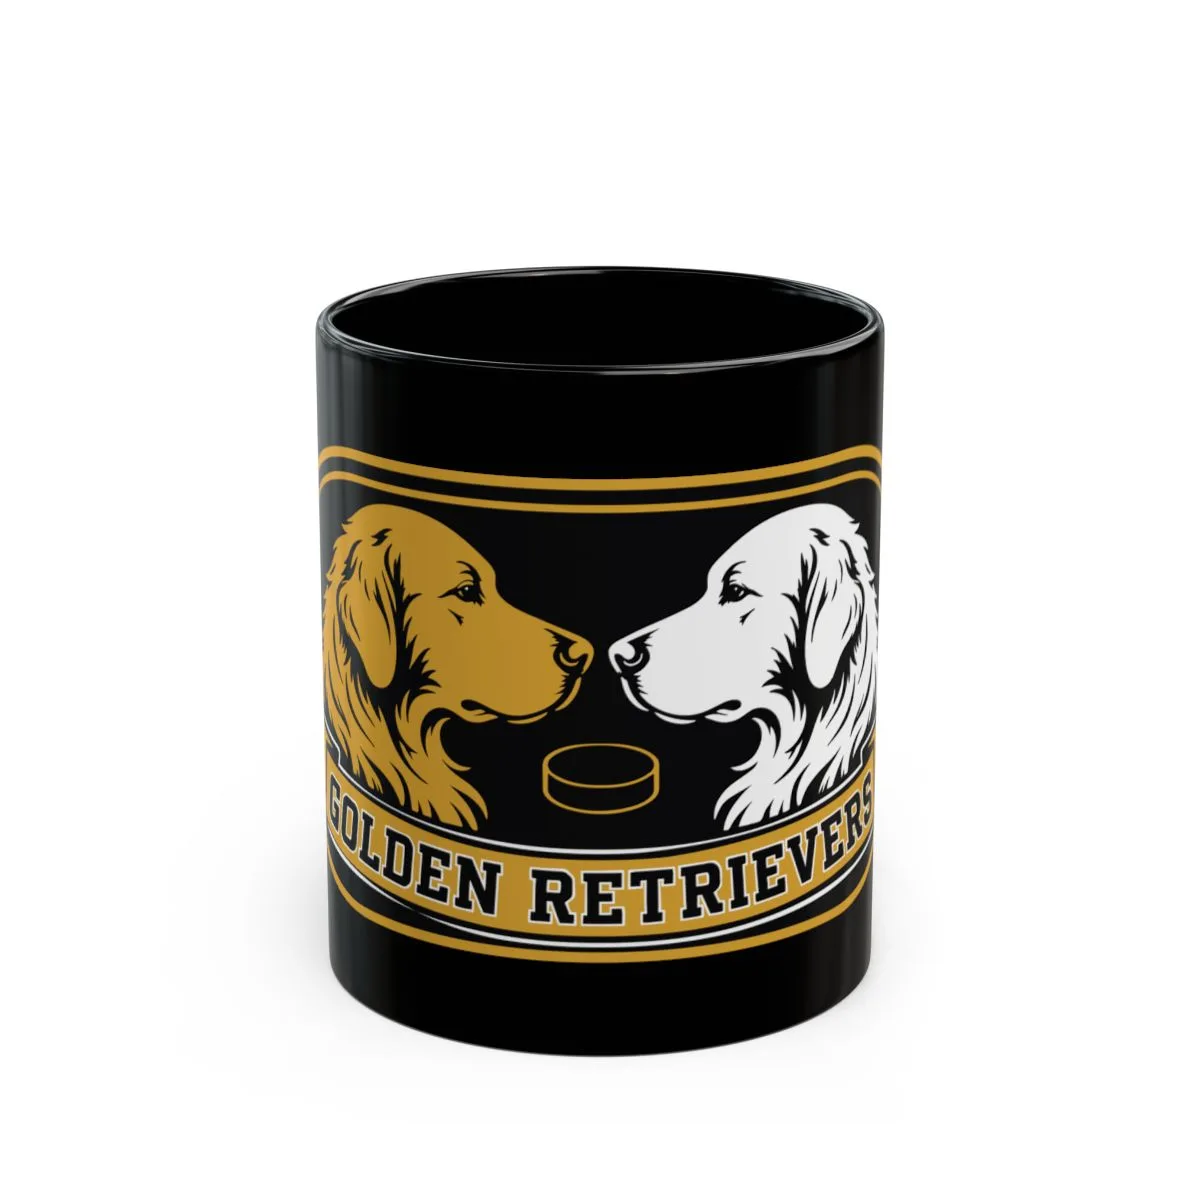
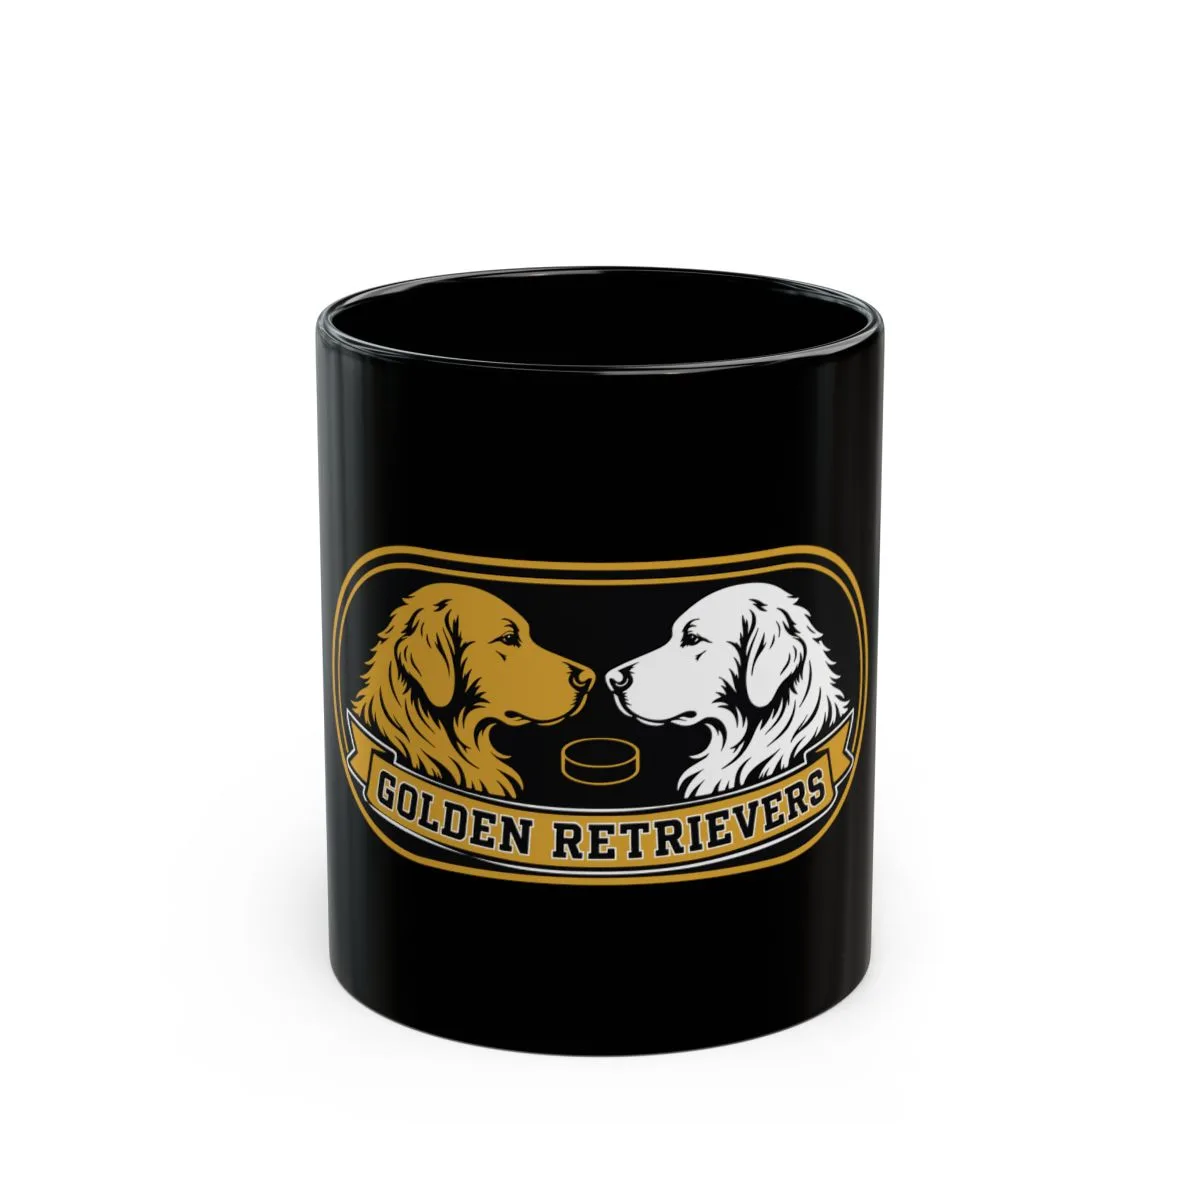
feat(store): 25% margins, cheapest reliable makers, and a listing QA pass
Three policies settled, then every listing checked against the provider's own
render rather than against the arithmetic.

SHIPPING — confirmed, and the concern was real

The captain asked whether breaking postage out was genuinely the better route,
and specifically whether a customer buying five things from one supplier gets
charged five times. Measured:

  5 tees, one design      $14.35
  5 tees, THREE designs   $14.35   ($4.75 + 4 x $2.40)
  bundled would charge    $23.75   (5 x $4.75)

So yes. A per-product rate cannot express a table where the second unit costs
half the first, and bundling overcharged every multi-item order by up to $9.40.
Quoted live per basket is both cheaper for the customer and honest. Already
shipped; this confirms it.

MARGINS — 33-43% down to ~25%

  tee $29 → $25    hoodie $66 → $55    cap $35 → $30
  beanie $27 → $23  mug $17 → $16      3 stickers $13.50 → $10.50

"I don't want to be ripping people off." The THIN flag moved 30% → 20%, since a
threshold above the target flags everything and therefore flags nothing. 20% is
where a sale stops being worth making: below it one customer-error reprint costs
more than three sales earn.

MAKERS — surveyed all six, one switch available and it was already taken

  hoodie   Monster Digital has 35 variants against SwiftPOD's 109 and cannot
           print the back, which two products need
  cap      Printify Choice saves 19c and loses a named embroiderer + EU
  beanie   Printify Choice is the same $14.96
[…]

Changed region(s): [[0.2467, 0.37, 0.74, 0.8017]]

diff --git a/packages/store/src/matrix.ts b/packages/store/src/matrix.ts
@@ -517,7 +517,7 @@ export const ITEMS: Item[] = [
     // back the day international opens** — the EU difference is larger than the
     // saving.
     printProviderId: 29,
-    priceCents: 2900,
+    priceCents: 2500,
     taxCode: "txcd_30011000",
     sizes: ["S", "M", "L", "XL", "2XL", "3XL"],
     // Three, not the ten Printful offered: Monster Digital prints and does not
@@ -565,7 +565,7 @@ export const ITEMS: Item[] = [
     // black, runs to 3XL, and adds the back and both sleeves as print areas. It
     // is also 55 cents cheaper on black.
     printProviderId: 39,
-    priceCents: 6600,
+    priceCents: 5500,
     taxCode: "txcd_30011000",
     sizes: ["S", "M", "L", "XL", "2XL", "3XL"],
     positions: ["front", "back", "left_sleeve", "right_sleeve", "neck"],
@@ -600,7 +600,7 @@ export const ITEMS: Item[] = [
     // Printify Choice, not SPOKE (provider 1). SPOKE appears in the catalog for
     // this blueprint and rejects creation outright — see REJECTS_CREATION.
     printProviderId: 99,
-    priceCents: 450,
+    priceCents: 350,
     // Vinyl, not apparel. No exemption anywhere applies to it.
     taxCode: "txcd_99999999",
     // Three at a time, and this is arithmetic rather than merchandising.
@@ -650,7 +650,7 @@ export const ITEMS: Item[] = [
     // cap. On embroidery, where the difference between shops is visible in the
     // stitch, 19 cents is not a decision.
     printProviderId: 410,
-    priceCents: 3500,
+    priceCents: 3000,
     // Hats, not general clothing. New York exempts caps the same way it exempts
     // shirts; the specific code is the one that says so in every other state too.
     taxCode: "txcd_30060006",
@@ -683,7 +683,7 @@ export const ITEMS: Item[] = [
     // beanie and the same $4.89 to post it. Printful adds Europe at $4.59,
     // which Printify Choice does not offer at any price.
     printProviderId: 410,
-    priceCents: 2700,
+    priceCents: 2300,
     taxCode: "txcd_30060006",
     sizes: ["One size"],
     positions: ["front"],
@@ -711,7 +711,7 @@ export const ITEMS: Item[] = [
     // BRAND in the mug category, was probed and costs $13.08 through the single
     // provider that carries it. That is a $30 mug, and it is not one.
     printProviderId: 99,
-    priceCents: 1700,
+    priceCents: 1600,
     // Ceramic. Fully taxable everywhere this shop can post to.
     taxCode: "txcd_99999999",
     sizes: ["11 oz", "15 oz"],
@@ -810,11 +810,18 @@ export const MATRIX: MatrixEntry[] = [
   { mark: "rink-board", item: "beanie", placement: { widthIn: 4.4 } },
   { mark: "nose-to-nose", item: "beanie", placement: { widthIn: 3.2 } },
 
-  /* Mug — landscape, and the two widest marks wrap it the way a mug wants to be
-     wrapped. The medallion is the third because a mug is the one object in the
-     line you look at head-on. */
-  { mark: "rink-board", item: "mug", placement: { widthIn: 6.5 } },
-  { mark: "nose-to-nose", item: "mug", placement: { widthIn: 6.0 } },
+  /* Mug — and the widths here are smaller than the canvas allows, on purpose.
+     The print area is 7.76in wide but a mug is a CYLINDER: seen head-on, only
+     the middle four inches or so face you and the rest curves away. Printify's
+     mockup renders that honestly, which is how it was caught — `rink-board` at
+     6.5in came back with the dog roundel bisected by the left edge of the mug
+     and the stick running off the right. It was not mispositioned; it was
+     printed correctly onto a surface that bends.
+     So the two wide marks are sized to the VISIBLE face rather than to the
+     canvas, and the medallion — which was already inside it at 3.44in — is
+     untouched. A mug is the one object in this line you look at head-on. */
+  { mark: "rink-board", item: "mug", placement: { widthIn: 4.5 } },
+  { mark: "nose-to-nose", item: "mug", placement: { widthIn: 4.0 } },
   { mark: "mascot-medallion", item: "mug" },
 
   /* Sticker — kiss-cut, so the vinyl takes the shape of the mark and every

diff --git a/packages/store/src/sync.ts b/packages/store/src/sync.ts
@@ -111,6 +111,16 @@ export type SyncResult = {
   id: string;
   productId: string;
   title: string;
+  /**
+   * As the SHOP holds it, tokens already resolved.
+   *
+   * Not `LineItem.description`, which still carries `{{firstYear}}`: that gets
+   * filled by `fillTokens` on the way into the create body and nowhere else, so
+   * reading the matrix version put the literal text "Playing since
+   * {{firstYear}}" on eighteen product pages while Printify showed "Playing
+   * since 2011". Taking it off the read-back cannot drift from what was sent.
+   */
+  description: string;
   blueprintId: number;
   printProviderId: number;
   visible: boolean;
@@ -286,6 +296,9 @@ export async function sync(options: { dryRun: boolean }): Promise<SyncResult[]> 
     if (options.dryRun) {
       results.push({
         id: item.id, productId: "(dry run)", title: item.title,
+        // Filled here too: a dry run that printed the raw token would be a
+        // preview of something the real run does not produce.
+        description: fillTokens(item.description, site),
         blueprintId: item.blueprintId, printProviderId: item.printProviderId,
         visible: false, variants: variantIds.length,
         priceCents: item.priceCents, costCents: 0, marginCents: 0,
@@ -455,7 +468,7 @@ async function writeCatalog(results: SyncResult[]): Promise<void> {
     return {
       id: r.id,
       title: item.title,
-      description: item.description,
+      description: r.description,
       priceCents: r.priceCents,
       taxCode: item.taxCode,
       markId: item.markId,
@@ -641,6 +654,7 @@ function verify(
     id,
     productId: got.id,
     title: got.title,
+    description: got.description,
     blueprintId: got.blueprint_id,
     printProviderId: got.print_provider_id,
     visible: got.visible,

diff --git a/packages/store/src/report.ts b/packages/store/src/report.ts
@@ -55,8 +55,15 @@ export const STRIPE_FLAT_CENTS = 30;
  * The margin that decides whether a product is worth selling is therefore what
  * is left after the goods and after Stripe — the postage cancels, being both
  * collected and paid. Net below this on the dearest variant is called out.
+ *
+ * **Lowered from 30% to 20% on 2026-07-29**, when the captain set the line at
+ * about 25% net: *"We want lower margins; I don't want to be ripping people
+ * off."* A threshold above the target flags everything and therefore flags
+ * nothing. 20% is where a sale stops being worth making — below it a single
+ * customer-error reprint, which Printify charges for, costs more than three
+ * sales earn.
  */
-const THIN_NET_MARGIN = 0.3;
+const THIN_NET_MARGIN = 0.2;
 /**
  * US first-item shipping above this share of retail is called out separately.
  * It is not a pricing failure once postage is priced in — it is a warning that
